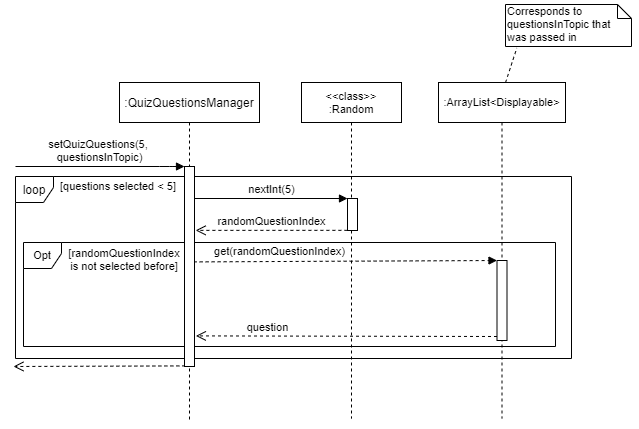
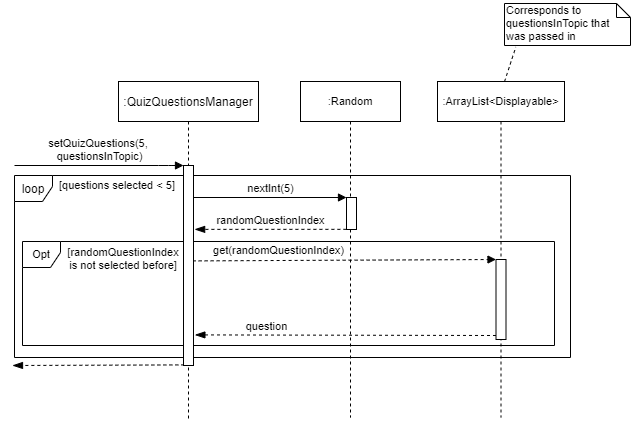
Tweak DeveloperGuide and QuizQuestionsManager class and sequence diagram

diff --git a/docs/DeveloperGuide.md b/docs/DeveloperGuide.md
@@ -18,29 +18,34 @@ When the user launches the app, the main program will initialize a `TopicsStorag
 
 ### Design of the Quiz system
 
+To start a quiz in E-Duke-8, a user will have to indicate the number of questions that he wants to attempt, as well as the topic to get the questions from. Thereafter, questions will be shown to the user one by one until all them are attempted. 
+
+The Class Diagram given below explains the high-level design of the Quiz system in E-Duke-8. Given below it is a quick overview of each component.
+
 ![QuizQuestionsManager_Class_Diagram](./images/QuizQuestionsManager.png)
 
-The Class Diagram given above explains the high-level design of the Quiz system in E-Duke-8. Given below is a quick overview of each component.
 
-An object of `SingleTopicQuiz` class represents an instance of the quiz in E-Duke-8.
 
-To start a quiz in E-Duke-8, a user will have to indicate the number of questions that he wants to attempt, as well as the topic to get the questions from. These correspond to the `numberOfQuestions` attribute, and the ‘Topic’ object in `SingleTopicQuiz ` respectively.
-The `startQuiz(ui)` method call initializes an object of `QuizQuestionsManager` by passing into it `numberOfQuestions`, as well as an ArrayList of questions from the `Topic` object. The `QuizQuestionsManager` object will then randomly select `numberOfQuestions` questions from the topic the user has chosen. Thereafter, by making use of `QuizQuestionsManager`'s `getNextQuestion()` and `areAllQuestionsAnswered` method calls, the `goThroughQuizQuestions` will loop through the questions until the user answers all of them on the command line interface.
+An object of `SingleTopicQuiz` class represents an instance of the quiz in E-Duke-8. Its `numberOfQuestions` attribute and `Topic` object correspond to the user's specified number of questions and topic for the quiz respectively.
+
+The `startQuiz(:Ui)` method call from the `SingleTopicQuiz` object initializes an object of `QuizQuestionsManager` by passing into it `numberOfQuestions`, as well as an ArrayList of questions from the `Topic` object. The `QuizQuestionsManager` object will then randomly select `numberOfQuestions` questions from the topic the user has chosen, using its `setQuizQuestions(:int, :ArrayList<Displayable>)` method. 
+
+Thereafter, by making use of `QuizQuestionsManager`'s `getNextQuestion()` and `areAllQuestionsAnswered()` method calls, the `goThroughQuizQuestions(:Ui, :QuizQuestionsManager)` will loop through the questions until the user answers all of them on the command line interface.
 
 ### Implementation of QuizQuestionsManager
 
-As mentioned in the section on the design of the quiz system, a `QuizQuestionsManager` will randomly select the indicated number of questions from the list of questions in the `Topic` object, and these will form the quiz questions for the user.
+As mentioned in the section on the design of the quiz system, a `QuizQuestionsManager` object will randomly select the indicated number of questions from the list of questions in the `Topic` object, and these will form the quiz questions for the user.
 
 The *Sequence Diagram* below shows how `QuizQuestionsManager` achieves this for the scenario where the user indicates that he wants to attempt 5 questions from the topic on OOP, which translates to the `setQuizQuestions(5, questionsInTopic)` call:
 
 
 ![QuizQuestionsManager_setQuizQuestions](./images/QuizQuestionsManager_setQuizQuestions.png)
 
-Note: The questionsInTopic corresponds to the OOP `Topic` object, and therefore the questions passed into the method call are that of the OOP topic.
+`nextInt(5)` is a method call to an object of the `Random` class. It returns a random integer between 0 (inclusive) and the number passed in as argument, 5 in this scenario, exclusive. 
 
-`nextInt(5)` is a static method call to an object of the `Random` class. It returns a random integer between 0 (inclusive) and the number passed in as argument, 5 in this scenario, exclusive. 
-To determine if randomQuestionIndex is not selected before, an integer ArrayList is initialized to record all the selected integers. By checking against this collection of integers, it can be determined if the current integer is repeated or not, and if it is, no question will be added for that iteration of the loop. 
-An ArrayList of `Question` objects is used to store all of the selected questions meant for the quiz.
+To determine if randomQuestionIndex is not selected before, an integer ArrayList is initialized to record all the selected integers. By checking against this collection of integers, it can be determined if a currently selected integer is repeated or not, and if it is, no question will be added for that iteration of the loop. 
+
+An ArrayList of `Question` objects stores all the selected questions meant for the quiz.
 
 
 ## Product scope
